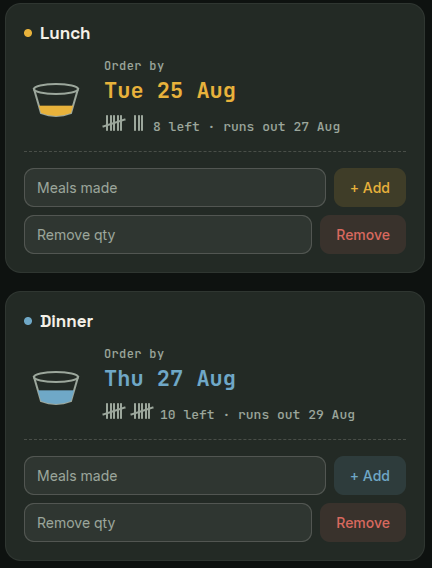
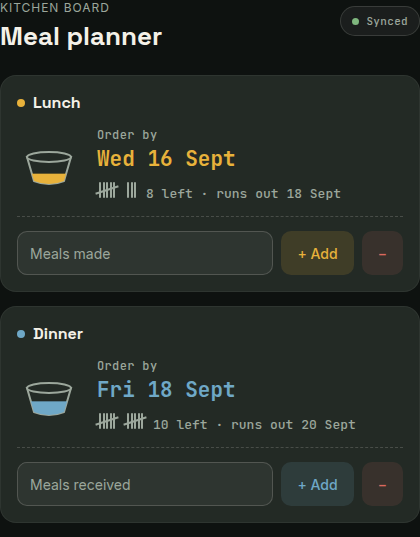
Update README and screenshots for the new header/one-screen layout
- Screenshots regenerated: cards-overview now shows the header sync chip;
  add-remove-controls shows the single input + "+ Add" + "-" row.
- README: Add/Remove copy reflects the one shared box and the "-" button;
  new one-screen-layout feature bullet; cloud-sync section describes the
  read-only signed-out board and the header chip instead of a login gate;
  added a command-line APK build recipe.

diff --git a/README.md b/README.md
@@ -4,14 +4,15 @@ A little kitchen-board-styled web app for tracking a dog's meals and working out
 
 Tracks lunch and dinner as two independent counts, each with its own order-by date, run-out date, and advance-warning reminders.
 
-![Lunch and dinner cards on the meal planner, styled like a kitchen chalkboard](screenshots/cards-overview.png)
+![The meal planner: a header with a live sync-status chip, and lunch and dinner cards styled like a kitchen chalkboard](screenshots/cards-overview.png)
 
 ---
 
 ## 🚀 Features
 
 - **Separate lunch and dinner tracking** — different batch sizes, different schedules, tracked independently
-- **Add / Remove, not overwrite** — log a new batch ("just made 15 lunches") without losing the running count, and remove meals lost to spoilage or waste without disturbing the rest
+- **Add / Remove, not overwrite** — one box per card: type a number and hit **+ Add** to log a new batch ("just made 15 lunches") on top of the running count, or **−** to take off meals lost to spoilage or waste. Neither replaces the count.
+- **One-screen layout** — header, both cards and the controls fit a phone screen without scrolling; account and sync status live in a single header chip
 - **Auto-decrement** — each count quietly ticks down right at that meal's set time (not midnight), so it stays accurate even if the app isn't opened every day, and stays honest about whether today's meal has actually happened yet
 - **Bowl-fill visual** — each meal type shows as a bowl that fills up relative to a full batch, for an at-a-glance read on stock level
 - **Chalk tally counter** — the exact count, grouped in fives like a tally on a kitchen board
@@ -59,8 +60,8 @@ Tracks lunch and dinner as two independent counts, each with its own order-by da
 ## 📖 How to use
 
 1. Open `www/index.html` in a browser, or tap the installed app icon on your phone.
-2. When you cook a fresh batch of lunches or a dinner delivery arrives, enter how many meals you got and hit **+ Add** — it tops up the existing count rather than replacing it.
-3. If any meals spoil or get wasted, enter the amount and hit **Remove**.
+2. When you cook a fresh batch of lunches or a dinner delivery arrives, type how many meals you got into the card's box and hit **+ Add** — it tops up the existing count rather than replacing it.
+3. If any meals spoil or get wasted, type the amount into the same box and hit **−**.
 4. Each card shows:
    - The bowl-fill level for that meal type
    - The tally count of meals remaining, and the date it'll run out
@@ -111,14 +112,20 @@ App icon sources (a 1024px icon plus separate foreground/background PNG layers f
 
 Optional. Both household members sign in with their own account and see the same
 lunch/dinner counts on every device, updated live. **Until the config below is
-filled in, none of this runs** — the app stays pure-localStorage with no login
-gate, exactly as before.
+filled in, none of this runs** — the app stays pure-localStorage with no account
+chip and no sign-in, exactly as before.
 
 ### How it behaves
 
 - **Offline-first, always.** The first paint is still synchronous from
   `localStorage` — nothing is awaited before it. A cold, offline start renders
   instantly. If you were signed in last time, your cards stay visible offline.
+- **Signed out is read-only, not blocked.** With sync configured but nobody
+  signed in, the board still shows this device's counts; the header chip goes
+  amber ("Sign in to sync") and each card's **+ Add** / **−** controls are
+  hidden until you sign in through the bottom sheet. Once you're in, that same
+  chip shows sync state (syncing / synced / offline / error) and holds the
+  **Sign out** menu — nothing is stranded at the bottom of the page.
 - **Only explicit actions sync.** Add / Remove write the new absolute count
   (`meals_remaining`) plus a client timestamp (`last_action_at`) to the server.
   The time-based auto-decrement is a **local display projection only** and never
@@ -211,6 +218,15 @@ The native project lives in `android/`, generated by Capacitor. To build it your
 npx cap sync android
 npx cap open android
 ```
+
+Or straight from the command line (no Android Studio):
+
+```
+npx cap copy android                       # push www/ into the native project
+cd android && ./gradlew assembleDebug      # -> app/build/outputs/apk/debug/app-debug.apk
+```
+
+A pre-built debug APK is kept at `meal-planner.apk` in the project root.
 
 **Known gotcha:** the build may fail with a Kotlin dependency mismatch unless the Kotlin BOM is pinned explicitly. If you hit that, add this to `android/app/build.gradle`:
 
